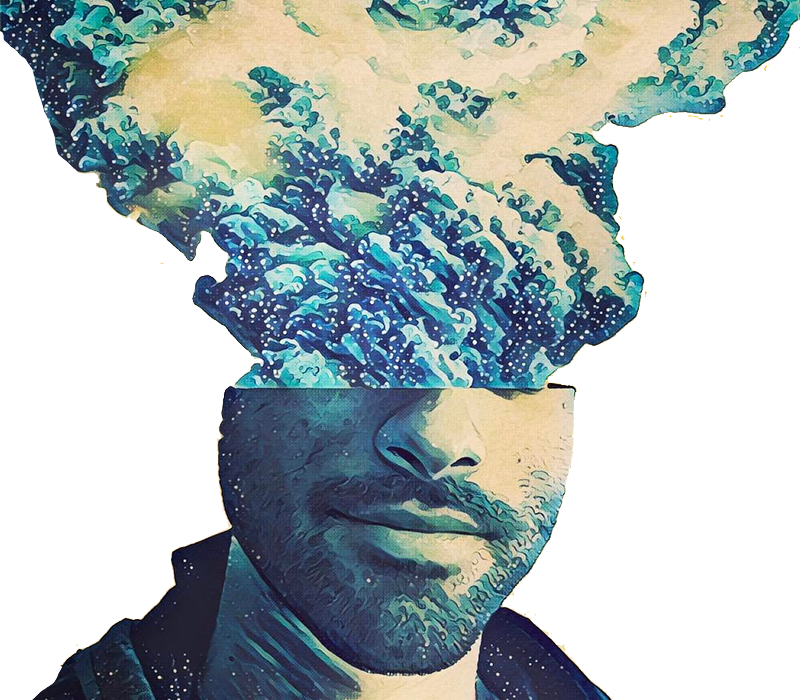
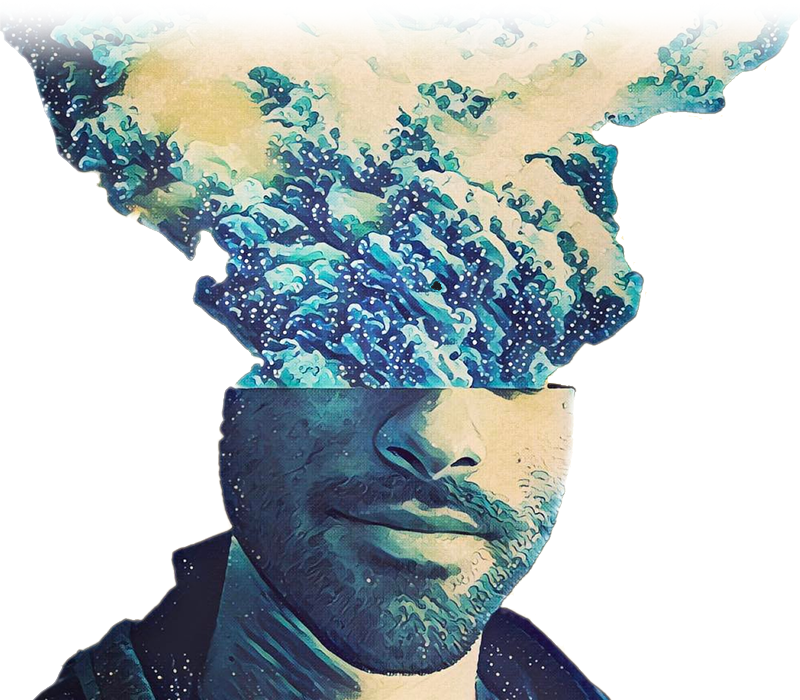
changed index billboard

diff --git a/src/client/stylesheets/partials/_billboard.scss b/src/client/stylesheets/partials/_billboard.scss
@@ -72,7 +72,7 @@
             display: inline-block;
             height: 35.1em;
             position: relative;
-                top: -3.539em;
+                top: -3.6em;
                 left: -18.750em;
 
             -webkit-animation: fadein 2s, slide-right 1s forwards;
@@ -93,6 +93,7 @@
             @include animation(fadein, 2s, forwards);
             @include animation-delay(1s);
 
+            color: $color4;
             cursor: default;
             height: 20.0em;
             position: absolute;

diff --git a/src/client/stylesheets/modules/_mixins.scss b/src/client/stylesheets/modules/_mixins.scss
@@ -47,7 +47,7 @@
 }
 
 @mixin shadow-hover {
-    @include box-shadow(0, .2em, .5em, 0, rgba(215, 215, 220, .5));
+    @include box-shadow(0, .2em, .5em, 0, rgba(215, 215, 220, .75));
 }
 
 @mixin touch-callout($mode) {

diff --git a/src/client/stylesheets/partials/_reuse.scss b/src/client/stylesheets/partials/_reuse.scss
@@ -65,7 +65,7 @@ ul {
 
 .body {
     background: white;
-    padding-bottom: 1.5em;
+    border-top: .3em solid $borderGray;
     text-align: center;
     width: 100%;
 

diff --git a/src/client/stylesheets/partials/_index.scss b/src/client/stylesheets/partials/_index.scss
@@ -1,6 +1,6 @@
 .index-site {
     .billboard {
-        background: rgb(235, 244, 244);
+        background: $color0;
     }
 
     .body {
